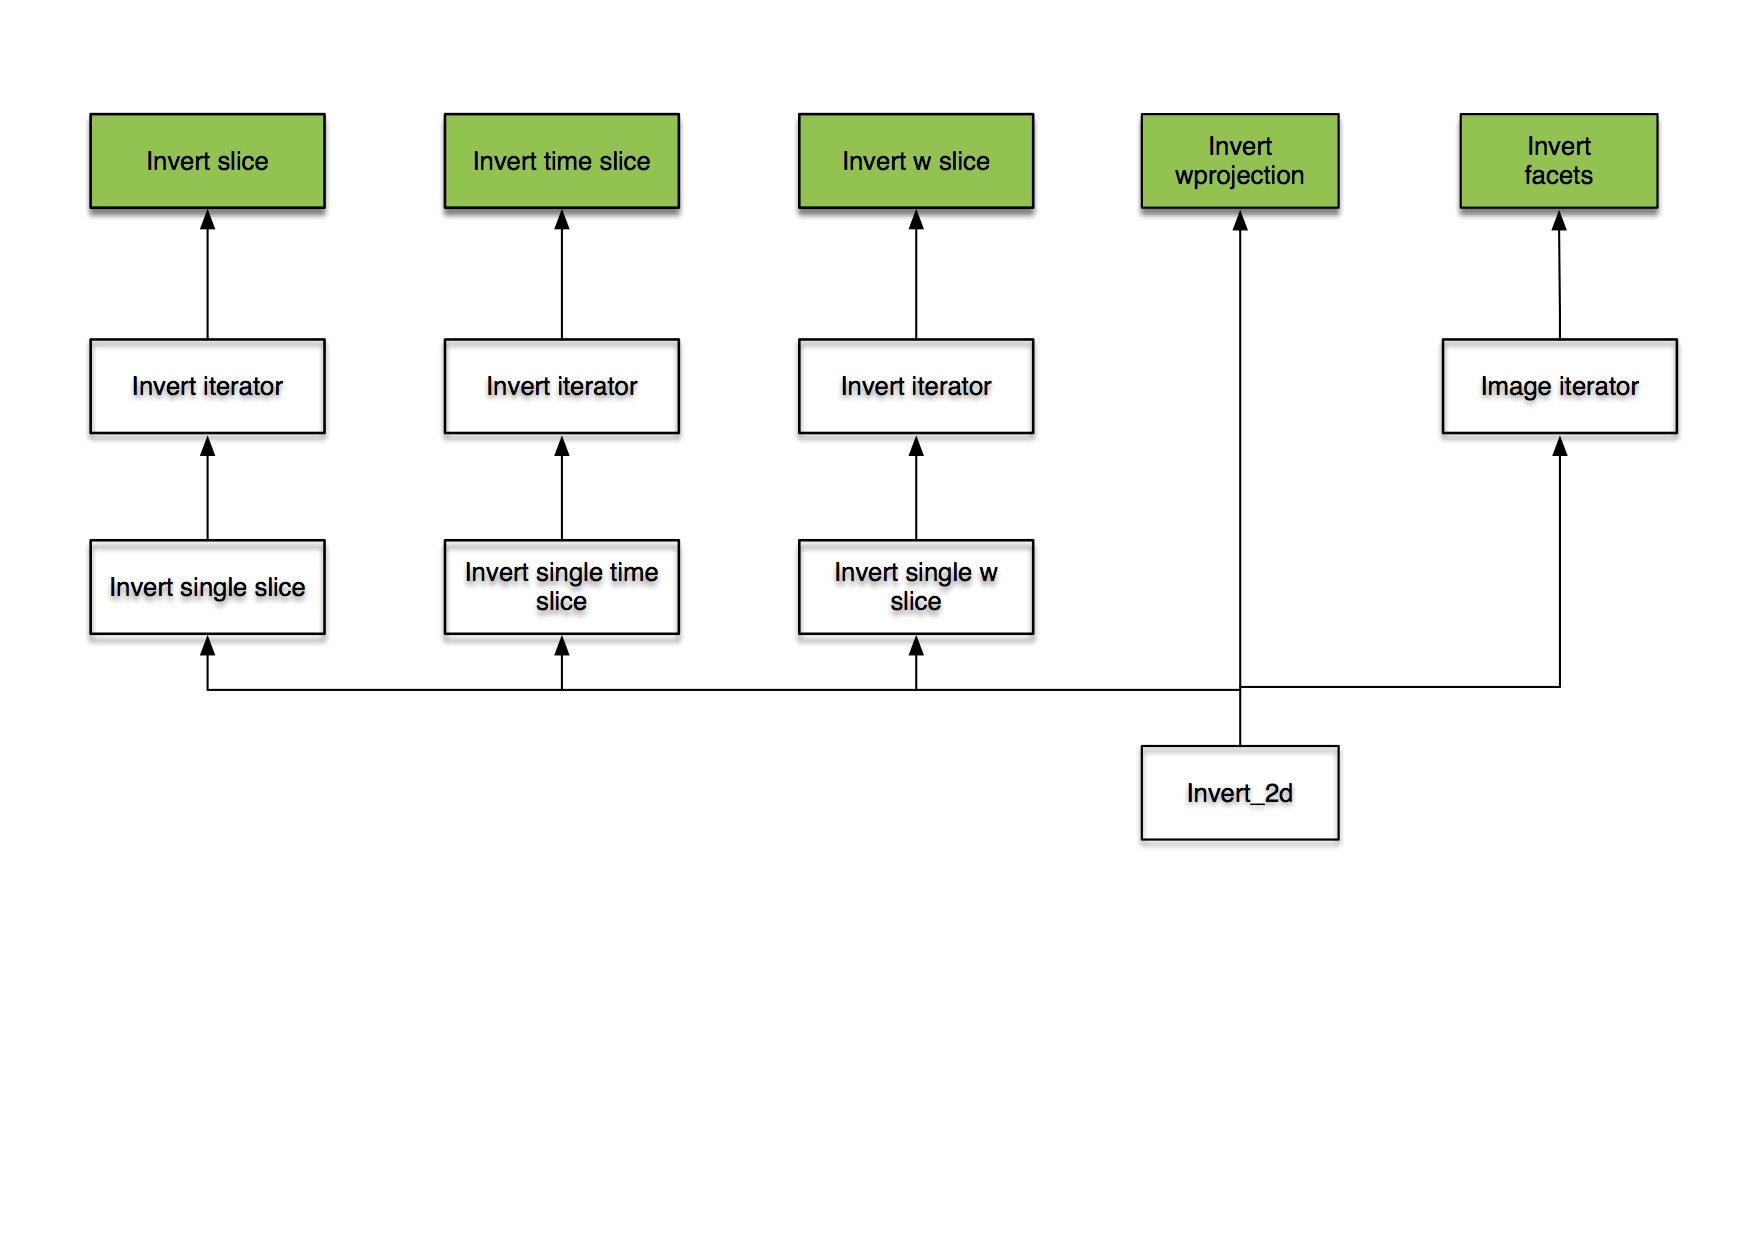
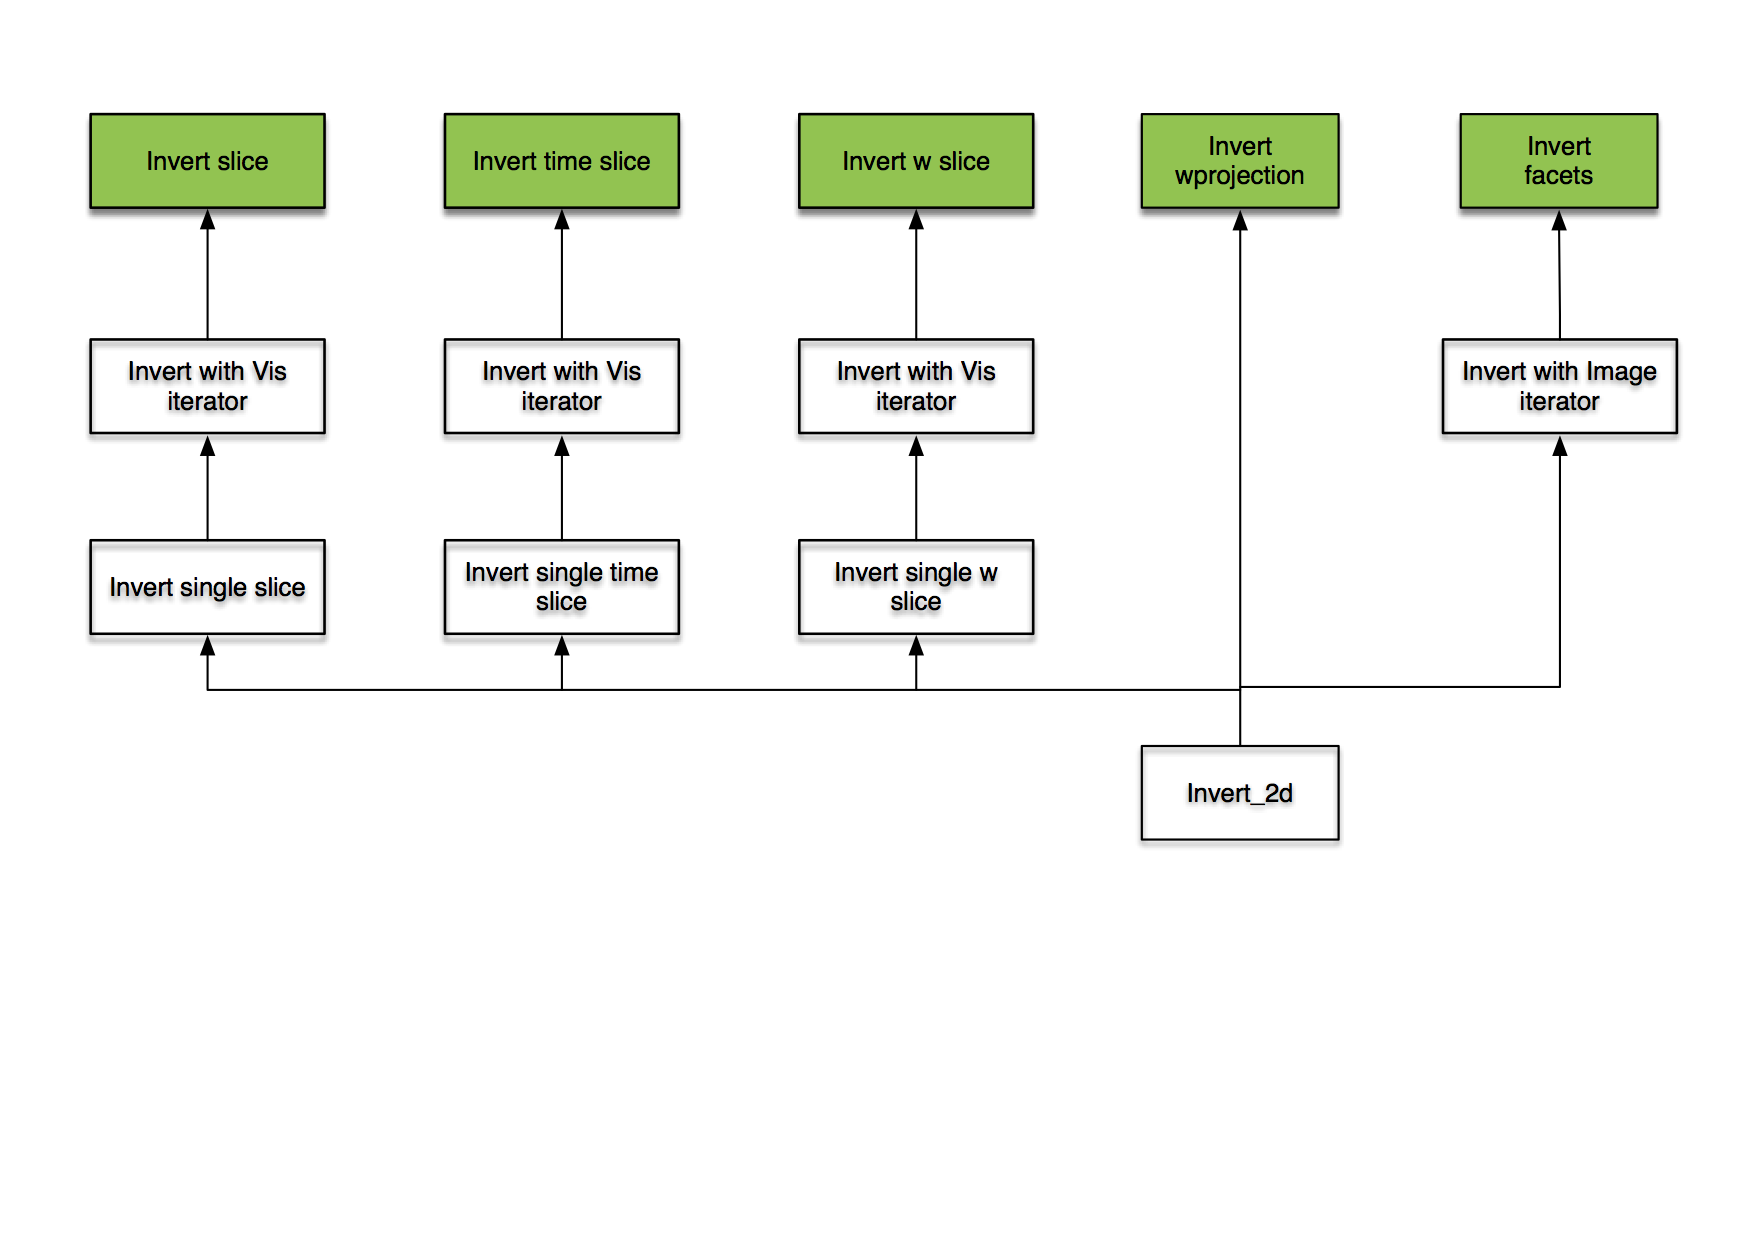
Slight refactoring of predict and invert
invert_facets and predict_facets now a thing. image_with_image_iter now now to ftprocessor_iterated.

diff --git a/tests/test_ftprocessor.py b/tests/test_ftprocessor.py
@@ -8,8 +8,6 @@ import unittest
 from astropy.convolution import Gaussian2DKernel, convolve
 
 from arl.fourier_transforms.ftprocessor import *
-from arl.fourier_transforms.ftprocessor_timeslice import *
-from arl.fourier_transforms.ftprocessor_wslice import *
 from arl.image.operations import export_image_to_fits, create_empty_image_like
 from arl.skymodel.operations import create_skycomponent, find_skycomponents, find_nearest_component, \
     insert_skycomponent
@@ -56,7 +54,7 @@ class TestFTProcessor(unittest.TestCase):
                        'npol': 1,
                        'nchan': 1,
                        'reffrequency': 1e8,
-                       'image_partitions': 8,
+                       'facets': 8,
                        'padding': 2,
                        'oversampling': 4,
                        'timeslice': 'auto',
@@ -165,9 +163,9 @@ class TestFTProcessor(unittest.TestCase):
         self.residualvis.data['vis'] = self.modelvis.data['vis'] - self.componentvis.data['vis']
         self._checkdirty(self.residualvis, 'test_%s_residual' % predict.__name__, fluxthreshold=fluxthreshold)
     
-    def test_predict_by_image_partitions(self):
+    def test_predict_facets(self):
         self.actualSetUp()
-        self._predict_base(predict_by_image_partitions, fluxthreshold=1e-7)
+        self._predict_base(predict_facets, fluxthreshold=1e-7)
 
     def test_predict_timeslice(self):
         # This works very poorly because of the poor interpolation accuracy for point sources
@@ -229,7 +227,7 @@ class TestFTProcessor(unittest.TestCase):
     def test_invert_by_image_partitions(self):
         self.actualSetUp()
         self.params['usereproject'] = False
-        self._invert_base(invert_by_image_partitions, positionthreshold=1.0)
+        self._invert_base(invert_with_image_iterator, positionthreshold=1.0)
 
     def test_invert_wslice(self):
         self.actualSetUp()
@@ -266,13 +264,13 @@ class TestFTProcessor(unittest.TestCase):
         time = (numpy.pi / (12.0 * 3600.0)) * numpy.linspace(0.0, 30.0, 11)
         self.actualSetUp(time=time)
         self.params['coalescence_factor'] = 1.0
-        self._invert_base(invert_by_image_partitions, positionthreshold=1.0)
+        self._invert_base(invert_facets, positionthreshold=1.0)
     
     def test_predict_by_image_partitions_with_coalescence(self):
         time = (numpy.pi / (12.0 * 3600.0)) * numpy.linspace(0.0, 30.0, 11)
         self.actualSetUp(time=time)
         self.params['coalescence_factor'] = 1.0
-        self._predict_base(predict_by_image_partitions, fluxthreshold=10.0)
+        self._predict_base(predict_with_image_iterator, fluxthreshold=10.0)
 
     def test_weighting(self):
         self.actualSetUp()

diff --git a/tests/test_testing_support.py b/tests/test_testing_support.py
@@ -9,7 +9,8 @@ import numpy
 from astropy import units as u
 from astropy.coordinates import SkyCoord
 
-from arl.util.testing_support import create_low_test_image, create_named_configuration, create_test_image
+from arl.util.testing_support import create_low_test_image, create_named_configuration, create_test_image, \
+    create_low_test_beam
 from arl.visibility.iterators import *
 from arl.visibility.operations import create_visibility
 
@@ -61,3 +62,13 @@ class TestTesting_Support(unittest.TestCase):
         assert im.data.shape[1] == 1
         assert im.data.shape[2] == 1024
         assert im.data.shape[3] == 1024
+
+    def test_create_low_test_beam(self):
+        im = create_low_test_image(npixel=1024, channelwidth=1e5,
+                                   frequency=numpy.array([1e8]),
+                                   phasecentre=self.phasecentre, fov=10)
+        bm = create_low_test_beam(im)
+        assert bm.data.shape[0] == 1
+        assert bm.data.shape[1] == 1
+        assert bm.data.shape[2] == 1024
+        assert bm.data.shape[3] == 1024

diff --git a/tests/test_image_iterators.py b/tests/test_image_iterators.py
@@ -23,7 +23,7 @@ class TestImageIterators(unittest.TestCase):
         params = {}
         for nraster in [2, 4, 8]:
             m31model = create_test_image(npol=4)
-            for patch in raster_iter(m31model, image_partitions=nraster):
+            for patch in raster_iter(m31model, facets=nraster):
                 assert patch.data.shape[3] == (m31model.data.shape[3] // nraster), \
                     "Number of pixels in each patch: %d not as expected: %d" % (patch.data.shape[3],
                                                                                 (m31model.data.shape[3] // nraster))

diff --git a/docs/ARL_Fourier_processing.rst b/docs/ARL_Fourier_processing.rst
@@ -73,9 +73,9 @@ ARL uses parallel processing to speed up some calculations. It is not intended t
 parallel processing should be implemented in SDP.
 
 We use an openMP-like package `pypm <https://github.com/classner/pymp/>`_. An example is to be found in
-arl/fourier_transforms/invert_with_iterator. The data are divided into timeslices and then processed in parallel::
+arl/fourier_transforms/invert_with_vis_iterator. The data are divided into timeslices and then processed in parallel::
 
-      def invert_with_iterator(vis, im, dopsf=False, vis_iter=vis_slice_iter, invert=invert_2d, **kwargs):
+      def invert_with_vis_iterator(vis, im, dopsf=False, vis_iter=vis_slice_iter, invert=invert_2d, **kwargs):
           """ Invert using a specified iterator and invert
 
           This knows about the structure of invert in different execution frameworks but not
